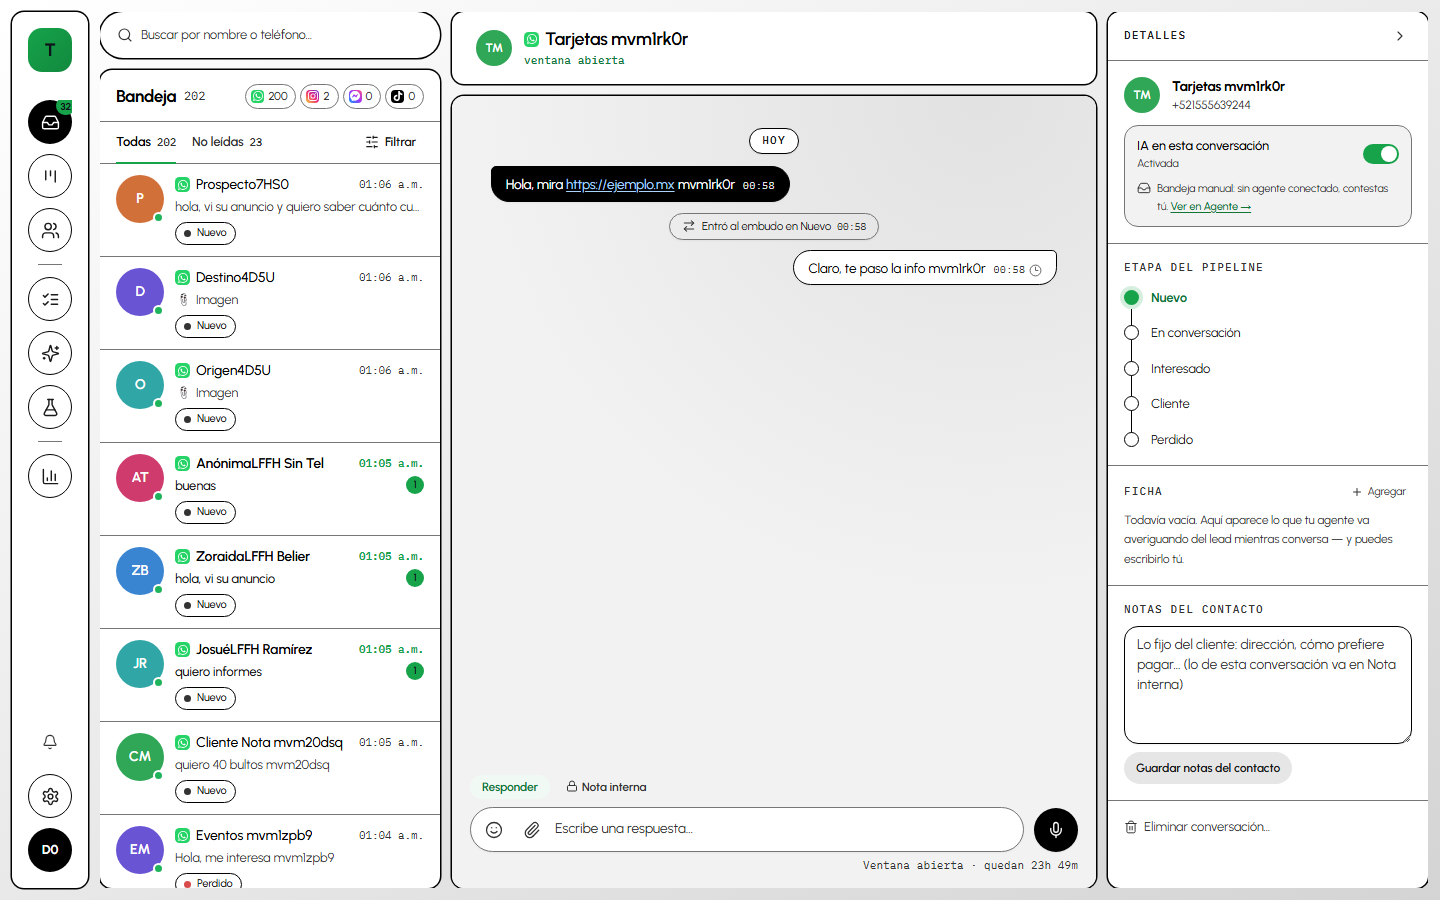
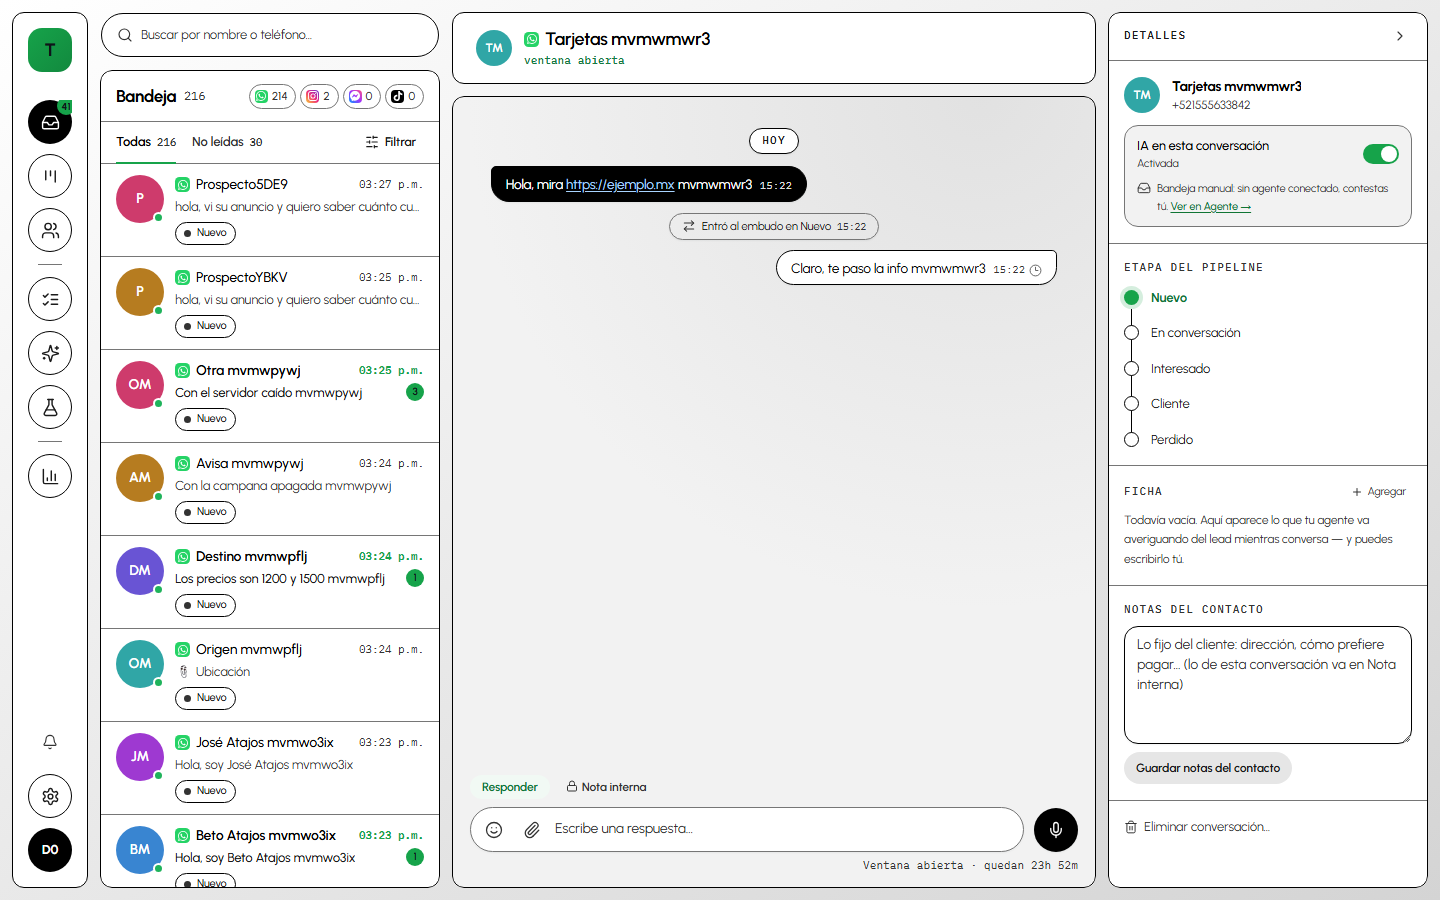
fix(062): el contorno de Alto contraste ya no se corta
Era una sombra por fuera que se recortaba en el borde de la app, y un outline
quedaba bajo la cabecera sticky del panel. Ahora es un ::after encima del
contenido de cada tarjeta. Lo vio Kevin probando los temas.

diff --git a/src/app/globals.css b/src/app/globals.css
@@ -118,6 +118,9 @@
     --marco-1: #f1eee5;
     --marco-2: #cde1d5;
     --radio-tarjeta: 24px;
+    /* 062 — Contorno de la tarjeta (Alto contraste), pintado por dentro y
+       encima del contenido (ver .tarjeta::after). */
+    --contorno-tarjeta: none;
     --sombra-tarjeta: 0 1px 2px rgba(20, 40, 30, 0.04),
       0 10px 30px -14px rgba(20, 40, 30, 0.16);
     /* El riel de iconos y el botón de enviar: ni el acento ni el gris, la
@@ -437,6 +440,19 @@
     background: var(--bg);
     border-radius: var(--radio-tarjeta);
     box-shadow: var(--sombra-tarjeta);
+    position: relative;
+  }
+  /* El contorno va en una capa ENCIMA del contenido: un outline quedaba
+     debajo de lo posicionado adentro (la cabecera sticky del panel) y una
+     sombra por fuera se recortaba en el borde de la pantalla. */
+  .tarjeta::after {
+    content: "";
+    position: absolute;
+    inset: 0;
+    border-radius: inherit;
+    border: var(--contorno-tarjeta);
+    pointer-events: none;
+    z-index: 25;
   }
 
   /* 061 — Dentro de una burbuja se redeclaran los neutros, como hace .nav-dark

diff --git a/src/components/inbox/conversation-list.tsx b/src/components/inbox/conversation-list.tsx
@@ -228,7 +228,7 @@ export function ConversationList({
     // su tarjeta. En el teléfono va igual, sin el marco alrededor.
     <div className="flex h-full flex-col bg-background lg:gap-[var(--hueco)] lg:bg-transparent">
       <div className="px-4 pt-3 lg:p-0">
-        <div className="flex items-center gap-2 rounded-full border border-border-strong bg-chip px-3.5 py-[7px] shadow-sm transition-[border-color,box-shadow] focus-within:border-brand focus-within:ring-[3px] focus-within:ring-brand-soft lg:border-transparent lg:bg-background lg:px-4 lg:py-3 lg:shadow-tarjeta">
+        <div className="flex items-center gap-2 rounded-full border border-border-strong bg-chip px-3.5 py-[7px] shadow-sm transition-[border-color,box-shadow] focus-within:border-brand focus-within:ring-[3px] focus-within:ring-brand-soft lg:tarjeta lg:rounded-full lg:border-transparent lg:px-4 lg:py-3">
           <Search className="h-4 w-4 shrink-0 text-text-3" strokeWidth={1.7} />
           <input
             ref={inputRef}

diff --git a/src/lib/temas.ts b/src/lib/temas.ts
@@ -298,7 +298,10 @@ export const TEMAS: Record<TemaId, Tema> = {
       "--riel-activo-texto": "#ffffff",
       "--enviar": "#000000",
       "--enviar-texto": "#ffffff",
-      "--sombra-tarjeta": "0 0 0 1.5px #000000",
+      // El contorno va por dentro y encima del contenido (.tarjeta::after):
+      // una sombra por fuera se recortaba en el borde de la pantalla.
+      "--sombra-tarjeta": "none",
+      "--contorno-tarjeta": "1.5px solid #000000",
       "--radio-tarjeta": "12px",
     },
   },

diff --git a/docs/bitacora-2.2.md b/docs/bitacora-2.2.md
@@ -1020,3 +1020,29 @@ tamaños», en Ajustes, con un tema del negocio que cada quien pueda cambiar.
 
 **Cómo se probó**: `e2e-apariencia.mjs` 25/25, sin pulsar «guardar»: recarga
 y comprueba la cookie. Typecheck, lint, test y build en verde.
+
+## 2026-10-24 — 062, arreglo: el contorno de Alto contraste se cortaba
+
+**Qué vio Kevin** probando los temas en casa («me dejaste sin palabras»): en
+Alto contraste, su favorito, las líneas de las tarjetas se interrumpían
+arriba.
+
+**Por qué**:
+
+- El contorno era una sombra por fuera (`box-shadow 0 0 0 1.5px`). Donde la
+  tarjeta toca el borde de la app (`overflow: hidden`), se recortaba.
+- Un `outline` hacia adentro tampoco bastó: la cabecera sticky del panel de
+  Detalles se pintaba encima.
+
+**Arreglo**: el contorno es un `::after` de la tarjeta (`inset: 0`,
+`z-index: 25`, `pointer-events: none`), encima de todo su contenido. Lo pinta
+el token `--contorno-tarjeta`, que solo usa Alto contraste. La tarjeta pasa a
+`position: relative`, y el buscador en cápsula también es una tarjeta.
+
+**Cómo se probó**:
+
+- `e2e-apariencia.mjs` ganó el check «cada tarjeta lleva su contorno encima
+  del contenido»: 26/26.
+- Diseño 40/40, filtros, atajos, reenviar, avisos y conexión, y responsive en
+  verde.
+- Typecheck, lint, test y build en verde.
